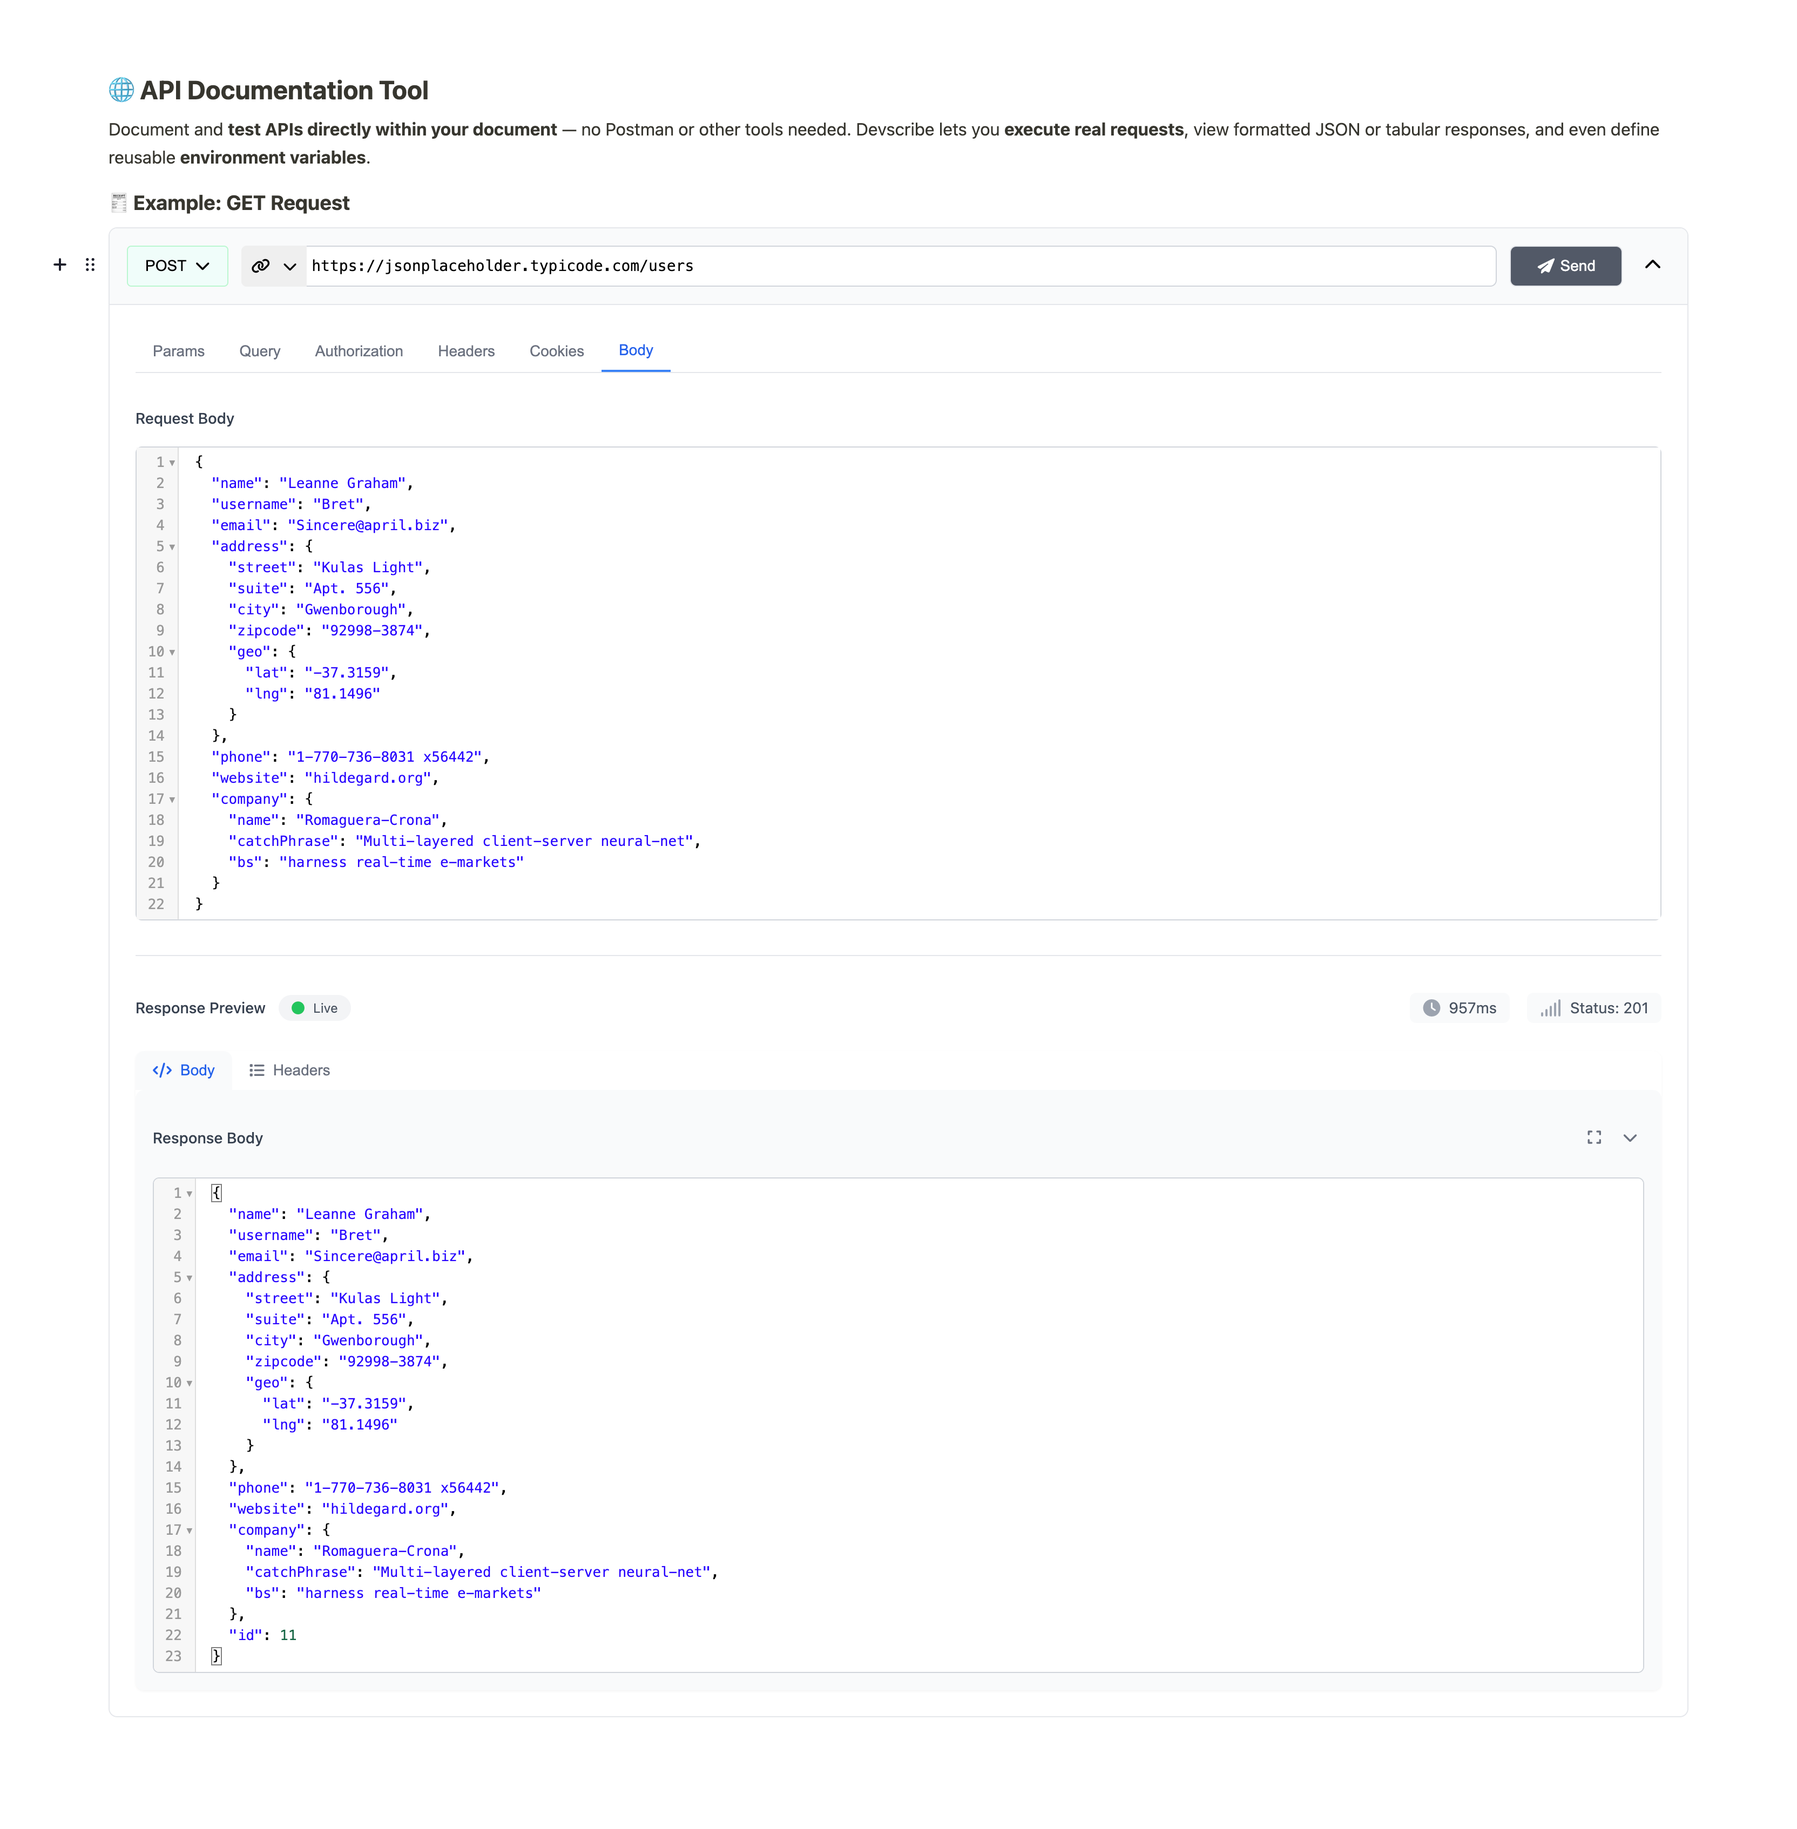
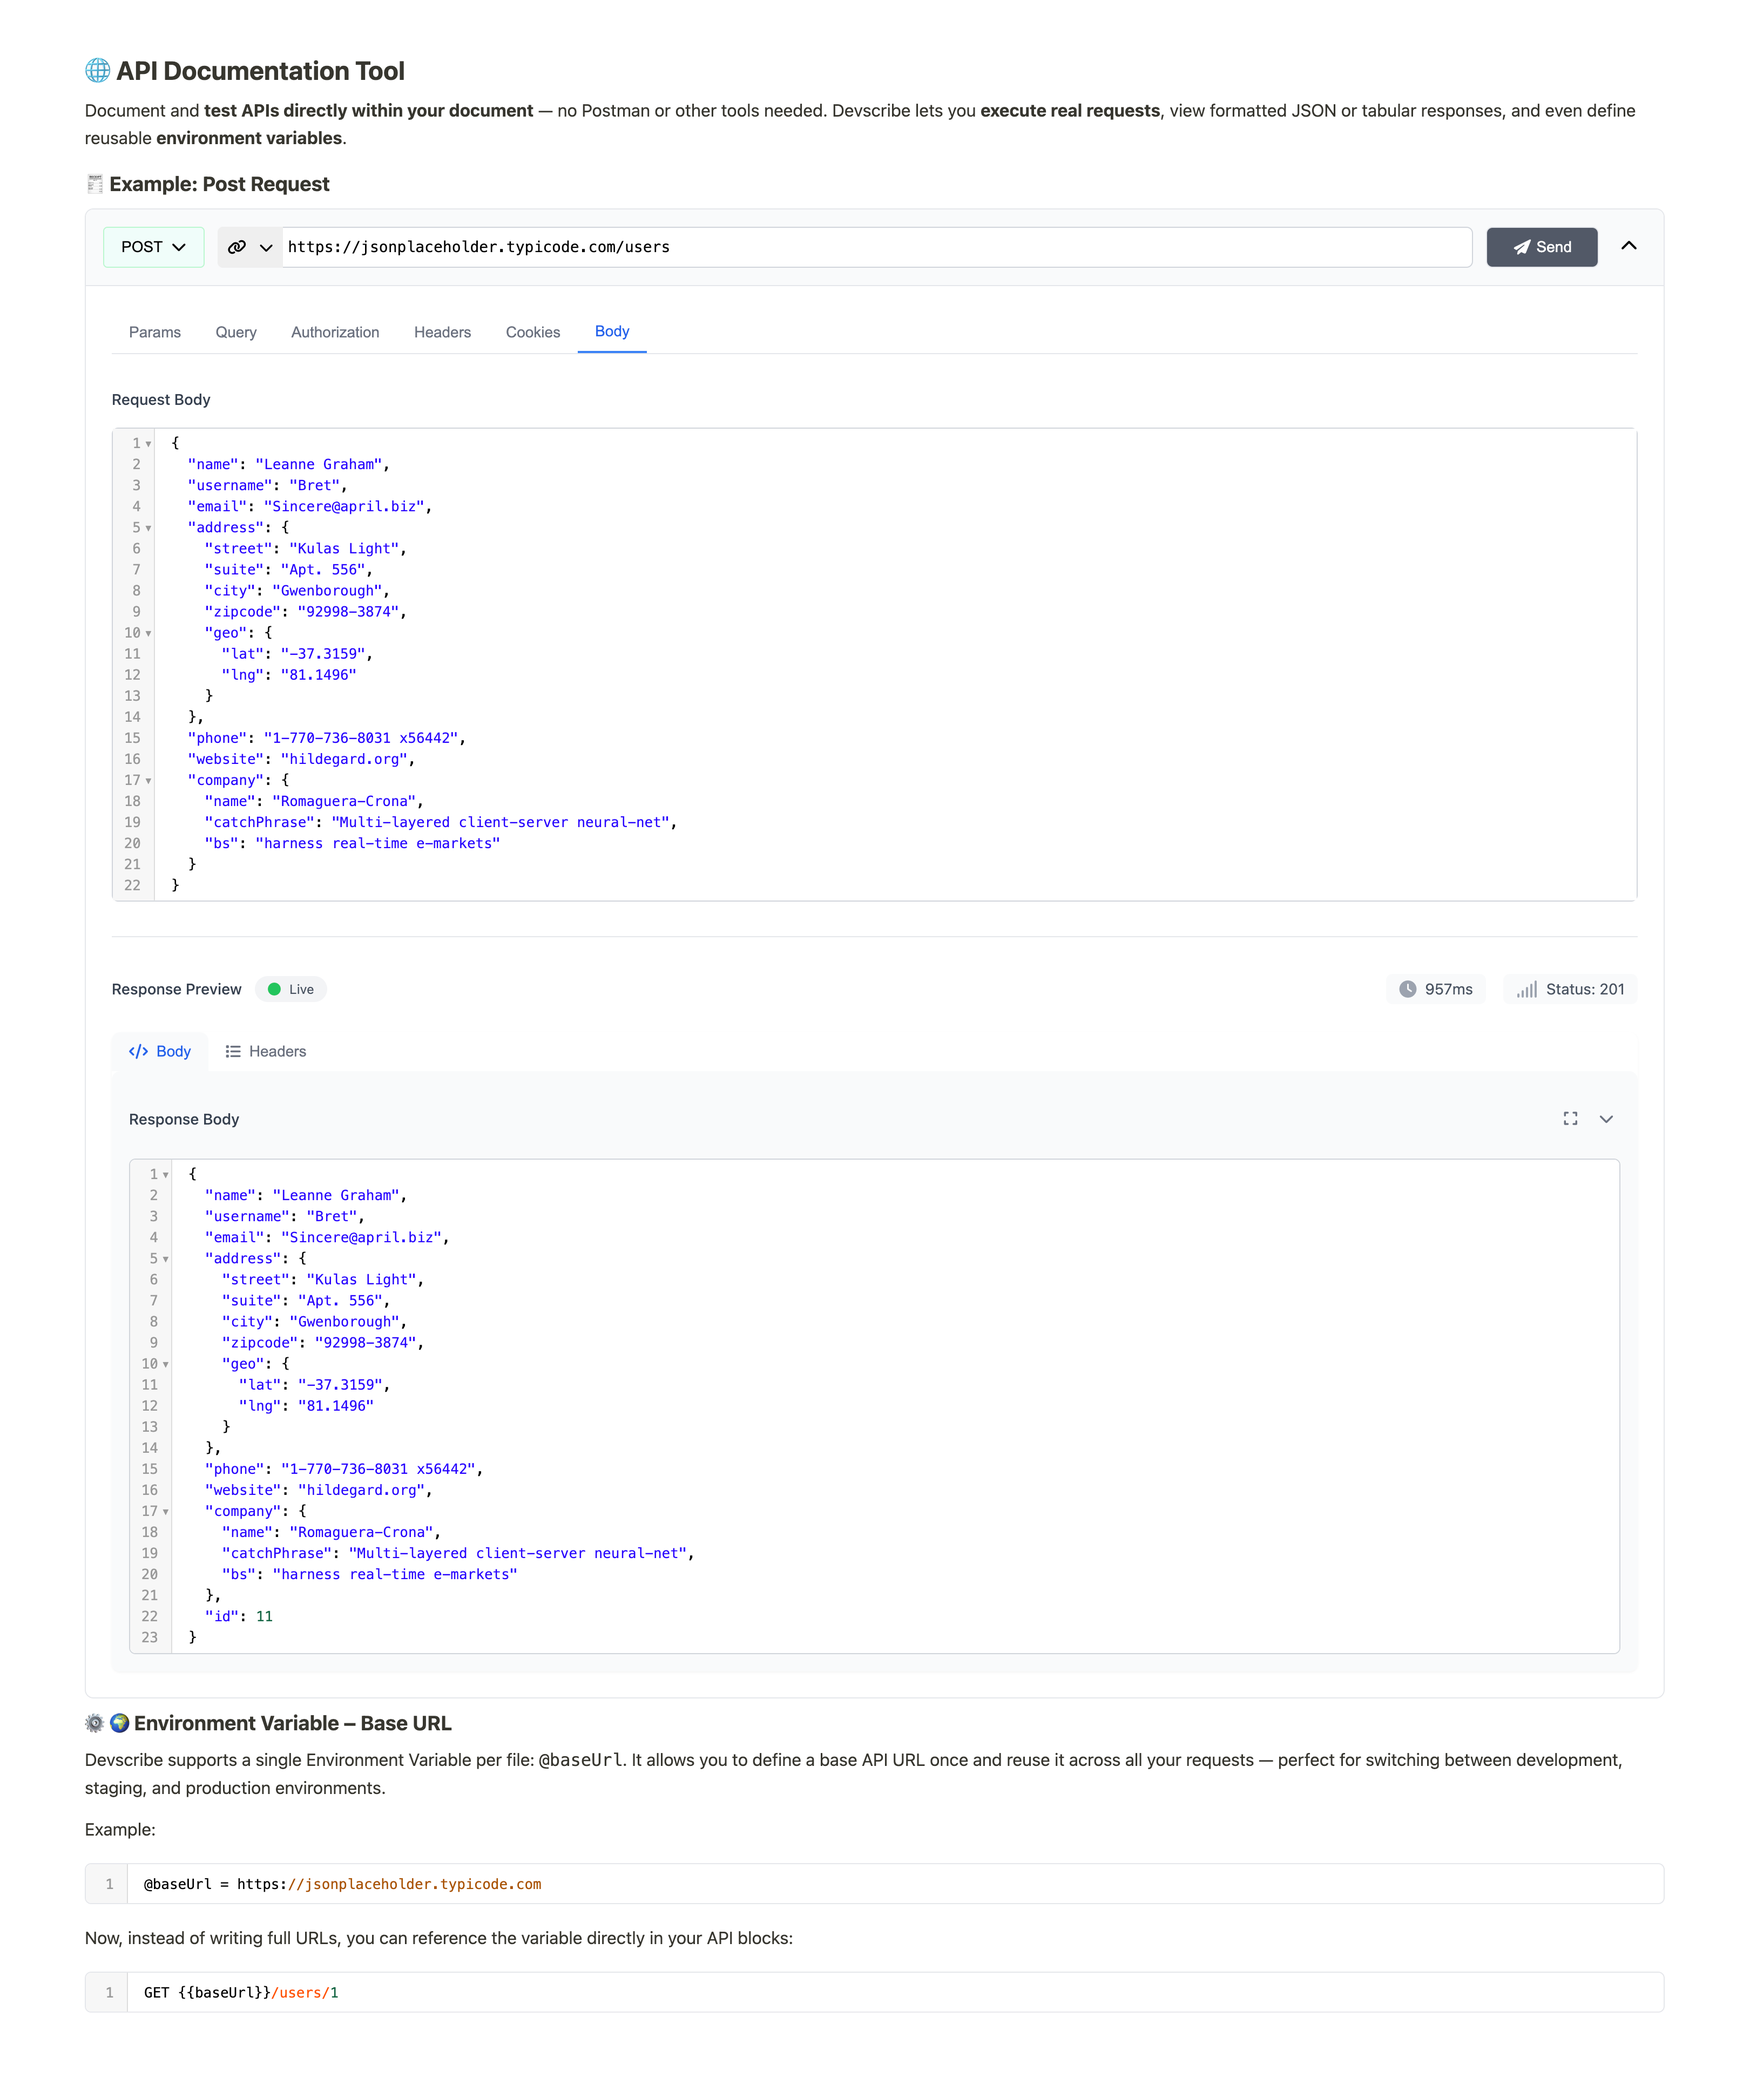
fix: changing api documentation example pic

diff --git a/features/index.html b/features/index.html
@@ -384,16 +384,12 @@
           </p>
         </div>
         <div class="feature-image">
-          <div class="code-example">
-            <span style="color: #64748b">// JavaScript Example</span>
-            console.log("Welcome to Devscribe!"); function fibonacci(n) { if (n
-            <= 1) return n; return fibonacci(n-1) + fibonacci(n-2); }
-            console.log(fibonacci(8));
-
-            <span style="color: #64748b">// TypeScript Example</span>
-            type User = { id: number; name: string; }; const user: User = { id:
-            1, name: "Developer" }; console.log(user);
-          </div>
+          <img
+            src="/images/code-execution-details.png"
+            alt="Multi-language code execution in Devscribe showing JavaScript and TypeScript examples with real-time console output and syntax highlighting"
+            title="Devscribe Code Execution - Run JavaScript, TypeScript, Python, Java, and SQL"
+            loading="lazy"
+          />
         </div>
       </div>
     </section>
@@ -555,7 +551,7 @@
         </div>
         <div class="feature-image">
           <img
-            src="/images/api-doc-1.png"
+            src="/images/api-doc.png"
             alt="API documentation and testing in Devscribe showing REST API requests with environment variables, GET method, and JSON response formatting"
             title="Devscribe API Documentation - Test REST APIs with environment variables"
             loading="lazy"
